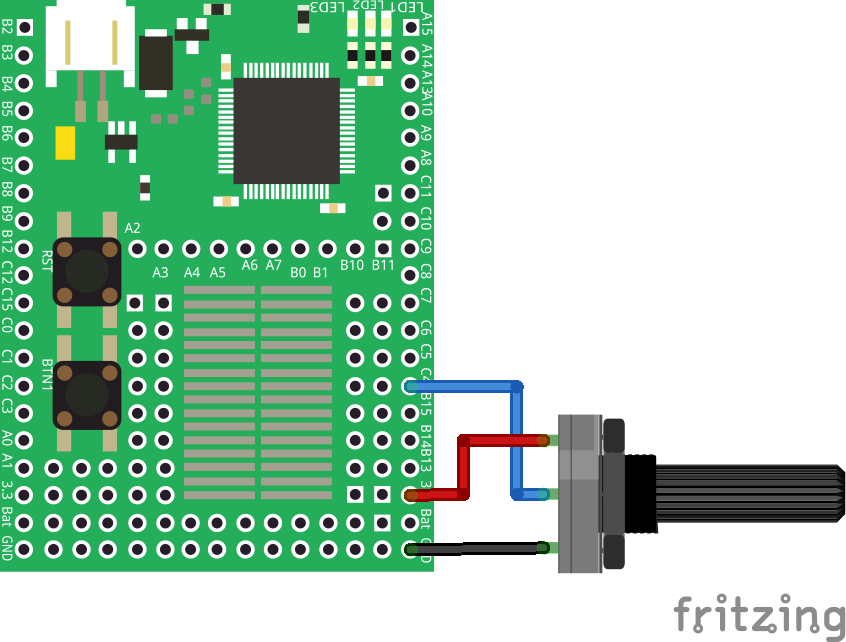
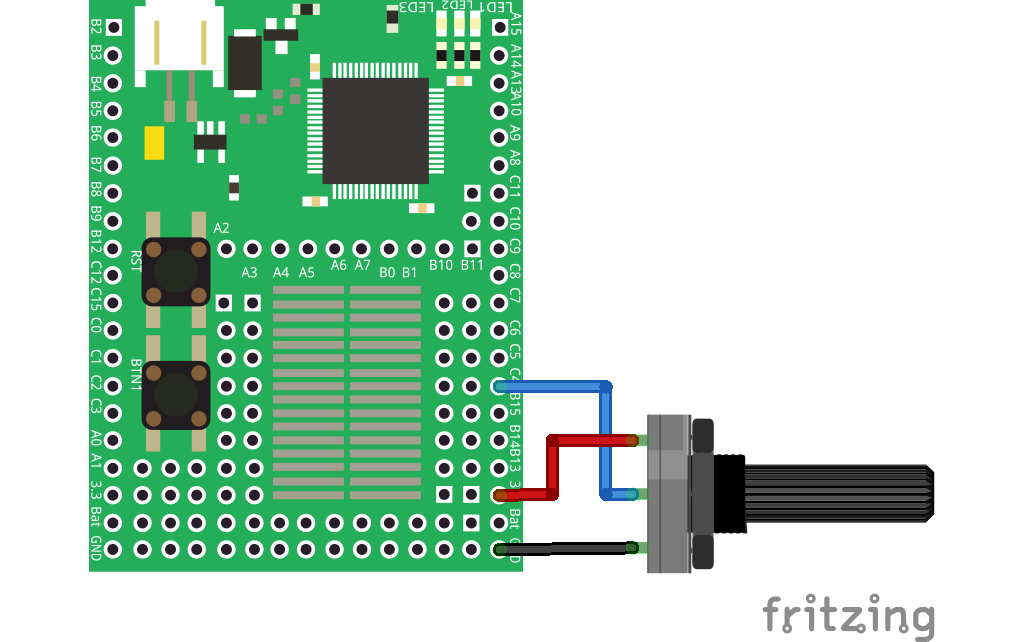
reorg the repo

diff --git a/arduino_style_analog_read/README.md b/arduino_style_analog_read/README.md
@@ -3,7 +3,7 @@
 **by Kay Anar in July 14, 2014**
 
 ## Board Setup
-![Board Setup](arduino_style_analog_read.png "Board Setup for Arduino Style Analog Read")
+![Board Setup](arduino_style_analog_read.png "Board Setup for Arduino Style Analog Read" =1024x)
 
 
 ## Sample Output

diff --git a/analog_read_voltage/README.md b/analog_read_voltage/README.md
@@ -3,7 +3,7 @@
 **by Kay Anar on July 14, 2014**
 
 ## Board Setup
-![Board Setup](analog_read_voltage.png "Board Setup for Analog Read Voltage")
+![Board Setup](analog_read_voltage.png "Board Setup for Analog Read Voltage" =1024x)
 
 
 ## Sample Output

diff --git a/analog_read_watch/README.md b/analog_read_watch/README.md
@@ -3,7 +3,7 @@
 **by Kay Anar in July 14, 2014**
 
 ## Board Setup
-![Board Setup](analog_read_watch.png "Board Setup for Analog Read Watch")
+![Board Setup](analog_read_watch.png "Board Setup for Analog Read Watch" =1024x)
 
 
 ## Sample Output

diff --git a/analog_read/README.md b/analog_read/README.md
@@ -3,7 +3,7 @@
 **by Kay Anar in July 14, 2014 **
 
 ## Board Setup
-![Board Setup](analog_read.png "Board Setup for Analog Read")
+![Board Setup](analog_read.png "Board Setup for Analog Read" =1024x)
 
 
 ## Sample Output

diff --git a/play_a_melody/README.md b/play_a_melody/README.md
@@ -3,7 +3,7 @@
 ****
 
 ## Board Setup
-![Board Setup](play_a_melody.png "Board Setup for Play a Melody For Espruino")
+![Board Setup](play_a_melody.png "Board Setup for Play a Melody For Espruino" =1024x)
 
 
 
